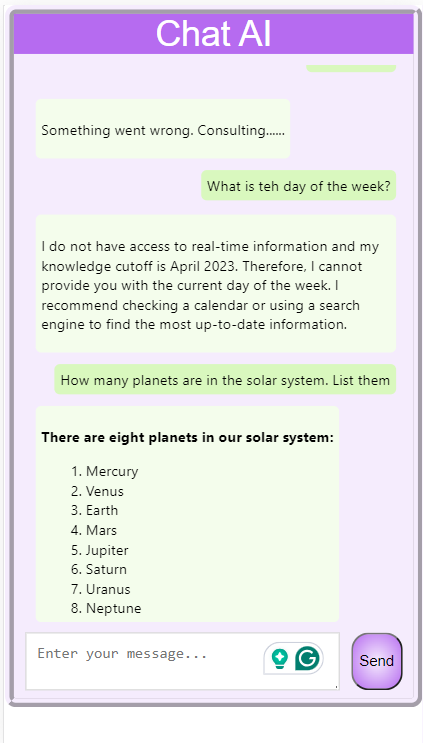
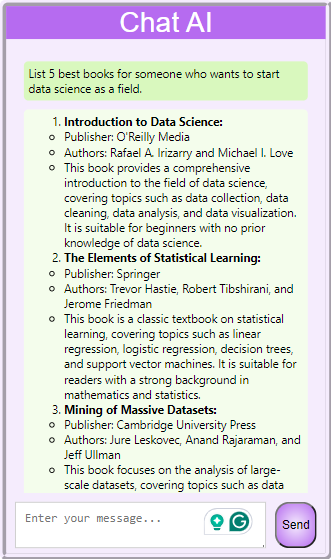
CSS update and keydown action listener

diff --git a/src/App.js b/src/App.js
@@ -12,8 +12,8 @@ function handleTextInput(evt){
 }
 
 function keyPressed(evnt){
-  if(evnt.key){
-    debugger
+  if(evnt.key.toLowerCase() === 'enter'){
+    sendMessage()
   }
 }
 
@@ -23,6 +23,7 @@ async function sendMessage(){
   const chatWindow = document.querySelector('.chat-window');
   const chatInput = document.querySelector('.chat-input');
   message = chatInput.value
+  document.activeElement.blur()
   chatInput.value = ""
 
   const outgoingMessageLi = document.createElement('li');
@@ -78,8 +79,8 @@ function App() {
       <ul className='chat-window'></ul>
 
       <div id="chat-form">
-        <textarea id="chat-input" class="chat-input"  placeholder="Enter your message..." onChange={handleTextInput}> </textarea>
-        <button type="submit" onClick={sendMessage} onKeyDown={keyPressed} id="submit-btn">Send</button>
+        <textarea id="chat-input" class="chat-input"  placeholder="Enter your message..." onChange={handleTextInput} onKeyDown={keyPressed} > </textarea>
+        <button type="submit" onClick={sendMessage} id="submit-btn">Send</button>
       </div>
     </div>
   );

diff --git a/src/App.css b/src/App.css
@@ -73,6 +73,9 @@
 .chat-message.incoming {
   background-color: #F4FDEC;
   float: left;
+  code {
+    text-wrap: balance;
+  }
 }
 
 .chat-message.li {

diff --git a/README.md b/README.md
@@ -2,8 +2,6 @@
 
 An demo app that uses the Google's Gemini API to enable a chat between the app user and the app.
 ![Alt text](./new_interface.png?raw=true)
-![Alt text](./usage_2.png?raw=true "Title")
-[<img src="./usage_2.png" width="100" height="100"/>](image.png)
 
 # Getting Started with Create React App
 
